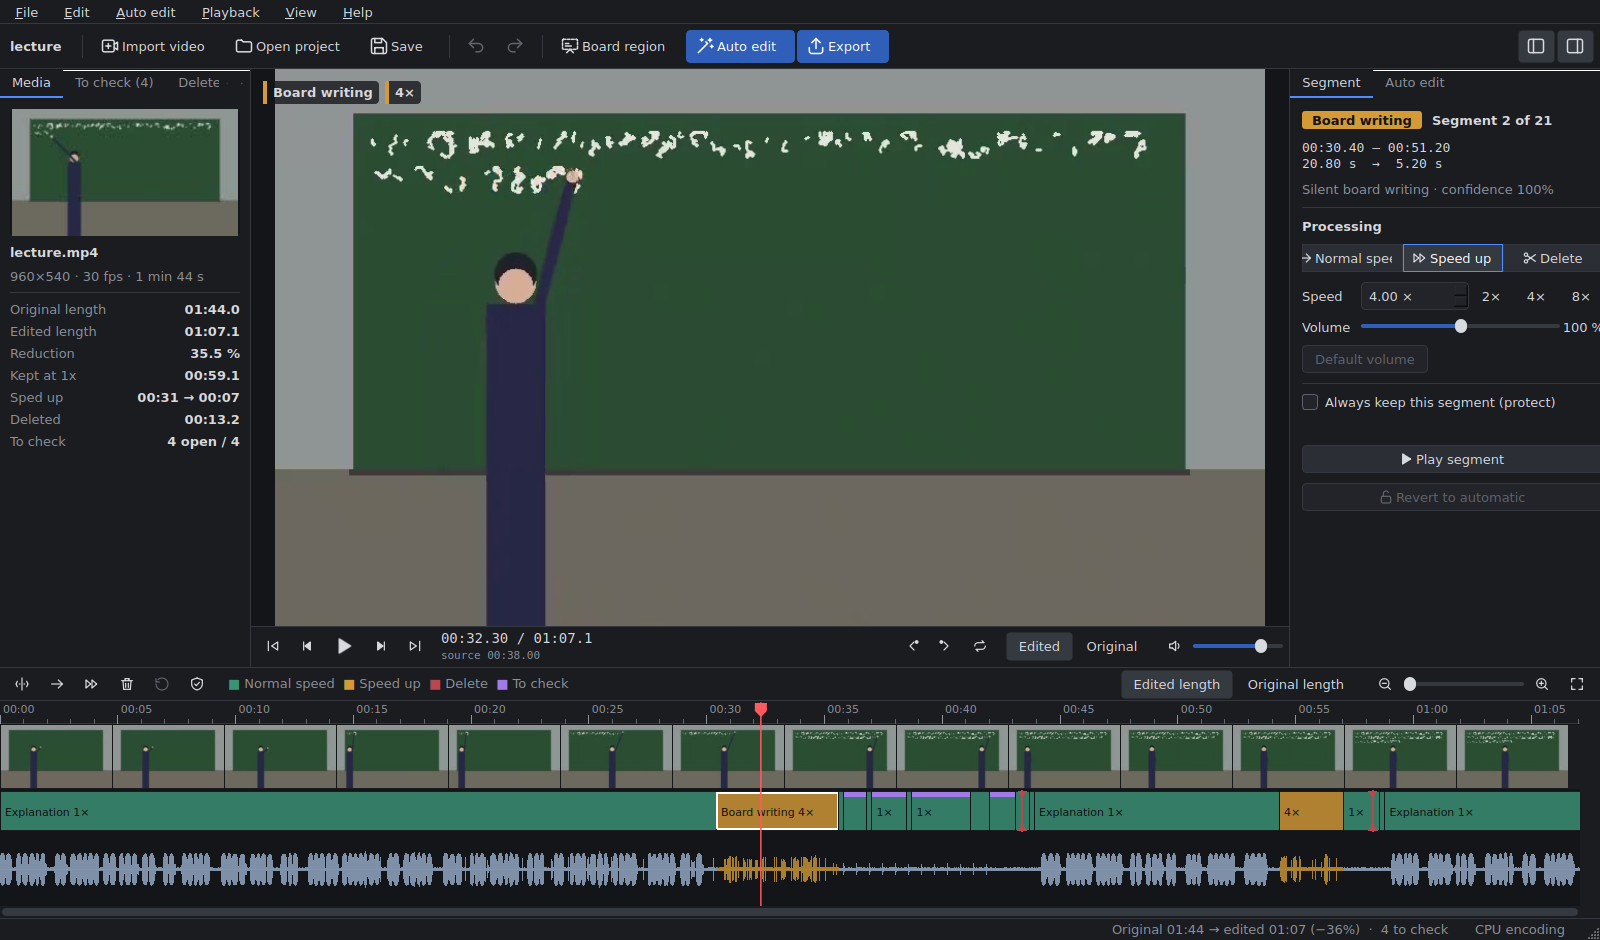
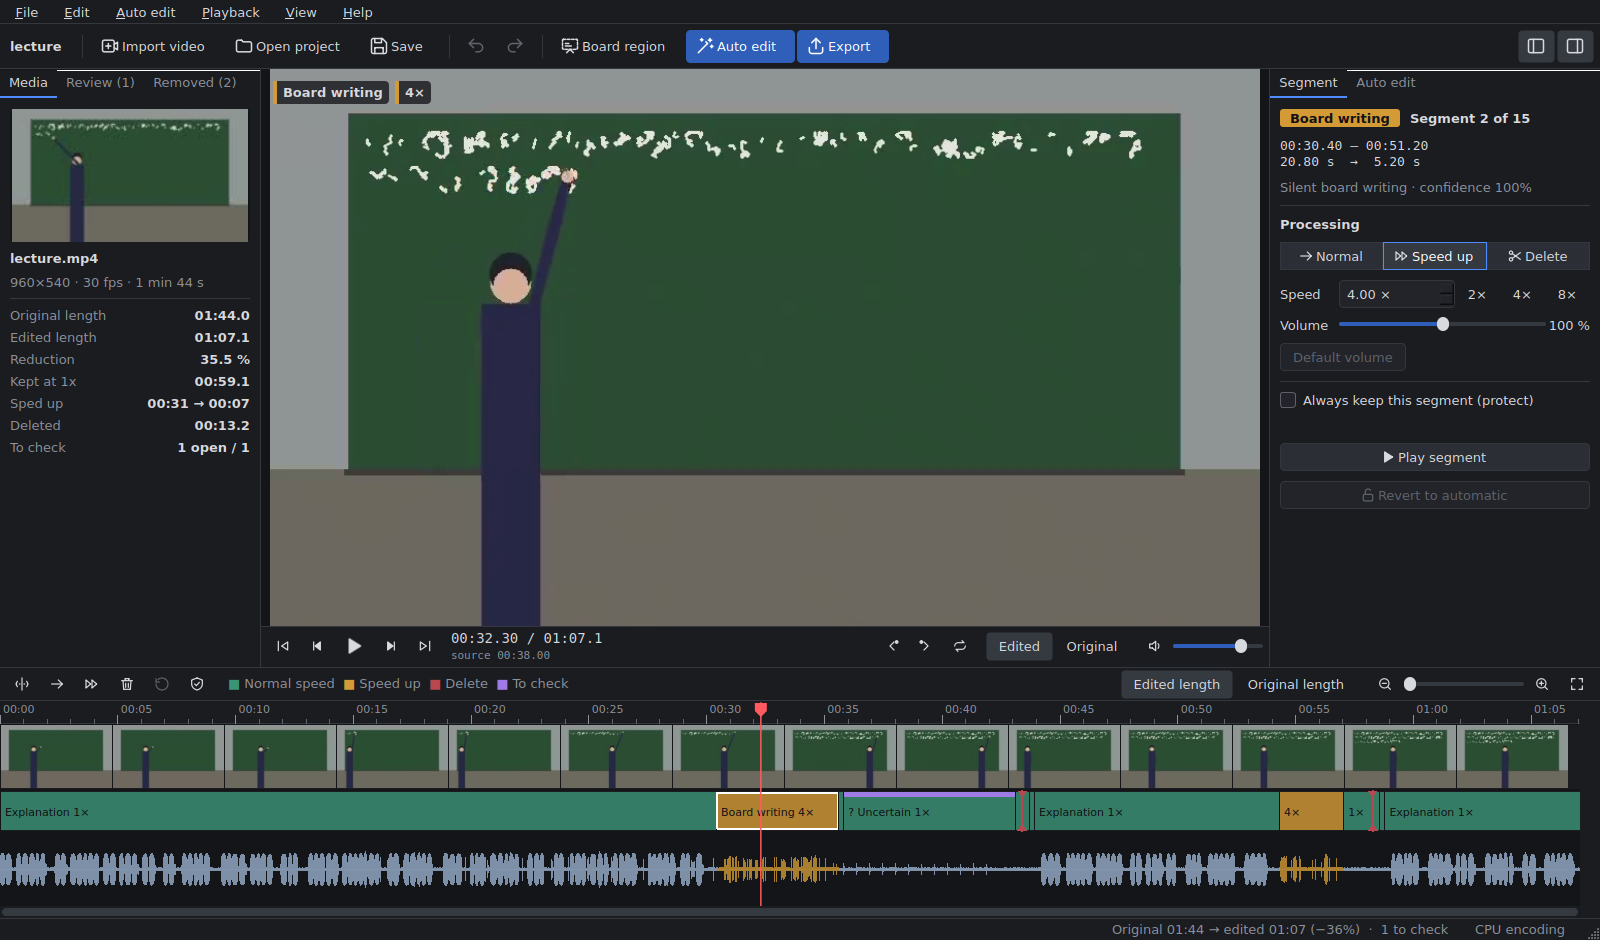
UI: panels fit English and Japanese labels; whiteboard test
- wrap long form rows, shorter action-button and tab labels, wider panel
  minimums; refreshed screenshots
- test dark-marker-on-whiteboard detection
- bump actions/checkout and setup-python (Node 20 deprecation)

Claude-Session: https://claude.ai/code/session_01S1EuHExLDRxGnk8Dv76QhM

diff --git a/src/cutsensei/ui/panels.py b/src/cutsensei/ui/panels.py
@@ -115,7 +115,7 @@ class MediaPanel(QTabWidget):
         rb.addWidget(self.review_play)
         rb.addWidget(self.review_done)
         rl.addLayout(rb)
-        self.addTab(review, tr("To check"))
+        self.addTab(review, tr("Review"))
 
         # ---- deleted tab
         cuts = QWidget()
@@ -131,7 +131,7 @@ class MediaPanel(QTabWidget):
         cb.addWidget(self.cut_play)
         cb.addWidget(self.cut_restore)
         cl.addLayout(cb)
-        self.addTab(cuts, tr("Deleted"))
+        self.addTab(cuts, tr("Removed"))
 
         self.review_tree.itemSelectionChanged.connect(
             lambda: self._tree_selected(self.review_tree))
@@ -229,9 +229,9 @@ class MediaPanel(QTabWidget):
             else:
                 self.pending_label.setText("")
             self._fill_trees()
-            self.setTabText(1, tr("To check") + (f" ({open_n})" if open_n else ""))
+            self.setTabText(1, tr("Review") + (f" ({open_n})" if open_n else ""))
             n_cut = sum(1 for s in p.timeline if s.action == Action.CUT)
-            self.setTabText(2, tr("Deleted") + (f" ({n_cut})" if n_cut else ""))
+            self.setTabText(2, tr("Removed") + (f" ({n_cut})" if n_cut else ""))
             self._update_poster()
         finally:
             self._updating = False
@@ -346,6 +346,8 @@ class AutoSpin(QDoubleSpinBox):
             self.setSuffix(suffix)
         self._auto = lo - step
         self.setKeyboardTracking(False)
+        self.setMinimumWidth(84)
+        self.setMaximumWidth(120)
 
     def value_or_none(self) -> Optional[float]:
         v = self.value()
@@ -366,7 +368,7 @@ class SegmentProperties(QWidget):
         super().__init__(parent)
         self.ctrl = controller
         lay = QVBoxLayout(self)
-        lay.setContentsMargins(12, 12, 12, 12)
+        lay.setContentsMargins(10, 10, 10, 10)
         lay.setSpacing(10)
         self.empty = QLabel(tr("Select a segment on the timeline to edit it."))
         self.empty.setObjectName("dim")
@@ -400,9 +402,12 @@ class SegmentProperties(QWidget):
         self.act_group = QButtonGroup(self)
         self.act_group.setExclusive(True)
         self.act_buttons = {}
+        short = {Action.KEEP: tr("Normal"), Action.SPEED: tr("Speed up"),
+                 Action.CUT: tr("Delete")}
         for act, icon_name in ((Action.KEEP, "keep"), (Action.SPEED, "speed"),
                                (Action.CUT, "cut")):
-            b = QPushButton(action_label(act))
+            b = QPushButton(short[act])
+            b.setToolTip(action_label(act))
             b.setObjectName("segment")
             b.setCheckable(True)
             b.setIcon(icons.icon(icon_name))
@@ -415,6 +420,7 @@ class SegmentProperties(QWidget):
         bl.addLayout(seg_row)
 
         form = QFormLayout()
+        form.setRowWrapPolicy(QFormLayout.WrapLongRows)
         form.setLabelAlignment(Qt.AlignLeft)
         form.setHorizontalSpacing(10)
         form.setVerticalSpacing(8)
@@ -627,6 +633,7 @@ class AutoEditPanel(QScrollArea):
 
         lay.addWidget(_heading(tr("Margin around speech")))
         pad = QFormLayout()
+        pad.setRowWrapPolicy(QFormLayout.WrapLongRows)
         pad.setHorizontalSpacing(10)
         self.pad_before = QDoubleSpinBox()
         self.pad_after = QDoubleSpinBox()
@@ -664,6 +671,7 @@ class AutoEditPanel(QScrollArea):
         lay.addWidget(self.adv_toggle)
         self.adv = QWidget()
         adv = QFormLayout(self.adv)
+        adv.setRowWrapPolicy(QFormLayout.WrapLongRows)
         adv.setContentsMargins(4, 0, 0, 0)
         adv.setHorizontalSpacing(10)
         adv.setVerticalSpacing(6)

diff --git a/src/cutsensei/ui/main_window.py b/src/cutsensei/ui/main_window.py
@@ -201,8 +201,8 @@ class MainWindow(QMainWindow):
         cl.addWidget(self.transport)
         self.timeline = TimelinePanel(self.ctrl)
 
-        self.media_panel.setMinimumWidth(230)
-        self.props.setMinimumWidth(300)
+        self.media_panel.setMinimumWidth(260)
+        self.props.setMinimumWidth(330)
         center.setMinimumWidth(520)
         self.hsplit = QSplitter(Qt.Horizontal)
         self.hsplit.addWidget(self.media_panel)
@@ -337,11 +337,11 @@ class MainWindow(QMainWindow):
         if not isinstance(self.qs.value("hsplit"), QByteArray):
             # first start on a small screen: give the preview the room
             w = self.width()
-            if w < 1180:
-                self.hsplit.setSizes([0, max(520, w - 300), 300])
+            if w < 1220:
+                self.hsplit.setSizes([0, max(520, w - 330), 330])
             else:
-                side = 250 if w < 1500 else 270
-                right = 310 if w < 1500 else 340
+                side = 260 if w < 1500 else 280
+                right = 330 if w < 1500 else 360
                 self.hsplit.setSizes([side, w - side - right, right])
         self._sync_panel_actions()
         QTimer.singleShot(0, self._detect_gpu)
@@ -512,7 +512,7 @@ class MainWindow(QMainWindow):
         self._toggle_panel(0, on, 270)
 
     def _toggle_right(self, on: bool) -> None:
-        self._toggle_panel(2, on, 340)
+        self._toggle_panel(2, on, 350)
 
     def _toggle_panel(self, index: int, on: bool, default: int) -> None:
         sizes = self.hsplit.sizes()

diff --git a/src/cutsensei/ui/translations_ja.py b/src/cutsensei/ui/translations_ja.py
@@ -163,6 +163,7 @@ STRINGS = {
     "No preview": "プレビューなし",
     "No project": "プロジェクトがありません",
     "No video loaded": "動画が読み込まれていません",
+    "Normal": "等速",
     "Normal speed": "等速",
     "Normal speed / speed up / delete": "等速 / 倍速 / 削除",
     "Not analysed yet": "未解析",
@@ -214,6 +215,7 @@ STRINGS = {
     "Release manual changes and protection; the automatic edit decides this part again.":
         "手動修正と保護を解除し、この部分を自動編集に任せます。",
     "Remaining: about {t}": "残り 約{t}",
+    "Removed": "削除区間",
     "Remove protection": "保護を解除",
     "Rendering audio...": "音声を処理しています…",
     "Reset settings": "設定のリセット",
@@ -221,6 +223,7 @@ STRINGS = {
     "Restore": "復元",
     "Restore deleted segment": "削除した区間を復元",
     "Restore deleted segment (R)": "削除した区間を復元 (R)",
+    "Review": "確認対象",
     "Revert to automatic": "自動判定に戻す",
     "Run auto edit": "自動編集を実行",
     "Same as source ({f:g} fps)": "元動画と同じ（{f:g} fps）",

diff --git a/tests/test_video.py b/tests/test_video.py
@@ -79,3 +79,24 @@ def test_region_helpers():
     assert cw % 2 == 0 and ch % 2 == 0 and aw <= 512 and ah <= 320
     mask = region_mask(regions, (aw, ah))
     assert mask.any() and not mask.all()
+
+
+def test_whiteboard_dark_marker():
+    import cv2
+
+    rng = np.random.default_rng(4)
+    canvas = np.full((H, W), 225, np.uint8)       # bright whiteboard
+    frames = []
+    for t in range(80):
+        if 20 <= t < 60:
+            x = 20 + (t - 20) * 6
+            cv2.line(canvas, (x, 80), (x + 5, 95), 40, 2)   # dark marker
+        frames.append(add_noise(canvas, rng))
+    mask = np.ones((H, W), bool)
+    tr = BoardTracker((W, H), mask, 4.0, initial_background=frames[0])
+    for f in frames:
+        tr.feed(f)
+    feats = tr.finish()
+    assert feats.polarity == -1
+    assert feats.ink[20:64].mean() > 20 * max(np.concatenate([feats.ink[:18],
+                                                              feats.ink[68:]]).mean(), 0.5)

diff --git a/src/cutsensei/ui/theme.py b/src/cutsensei/ui/theme.py
@@ -104,7 +104,7 @@ QLineEdit:focus, QSpinBox:focus, QDoubleSpinBox:focus, QComboBox:focus {{ border
 QComboBox QAbstractItemView {{ background: {BG2}; border: 1px solid {BORDER};
                                selection-background-color: {ACCENT_DIM}; }}
 QTabWidget::pane {{ border: none; border-top: 1px solid {BORDER}; }}
-QTabBar::tab {{ background: transparent; color: {TEXT_DIM}; padding: 6px 12px;
+QTabBar::tab {{ background: transparent; color: {TEXT_DIM}; padding: 6px 9px;
                 border: none; border-bottom: 2px solid transparent; }}
 QTabBar::tab:selected {{ color: {TEXT}; border-bottom: 2px solid {ACCENT}; }}
 QTabBar::tab:hover {{ color: {TEXT}; }}
